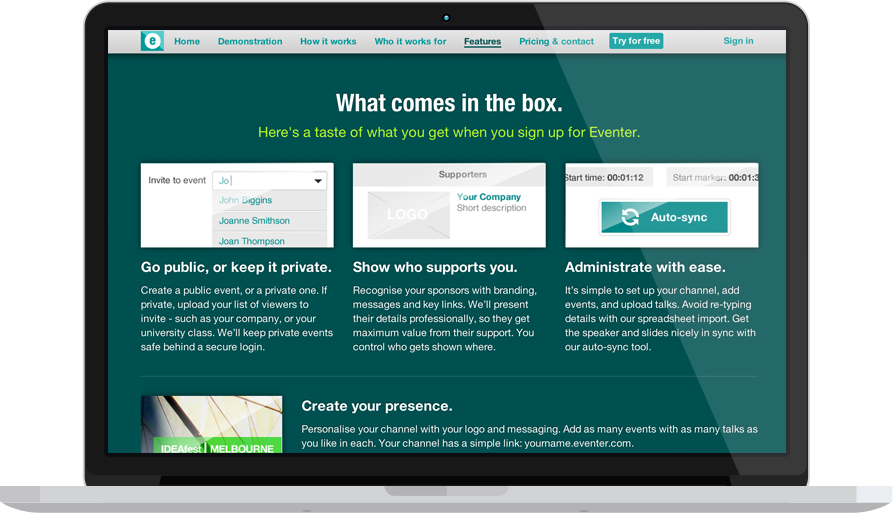
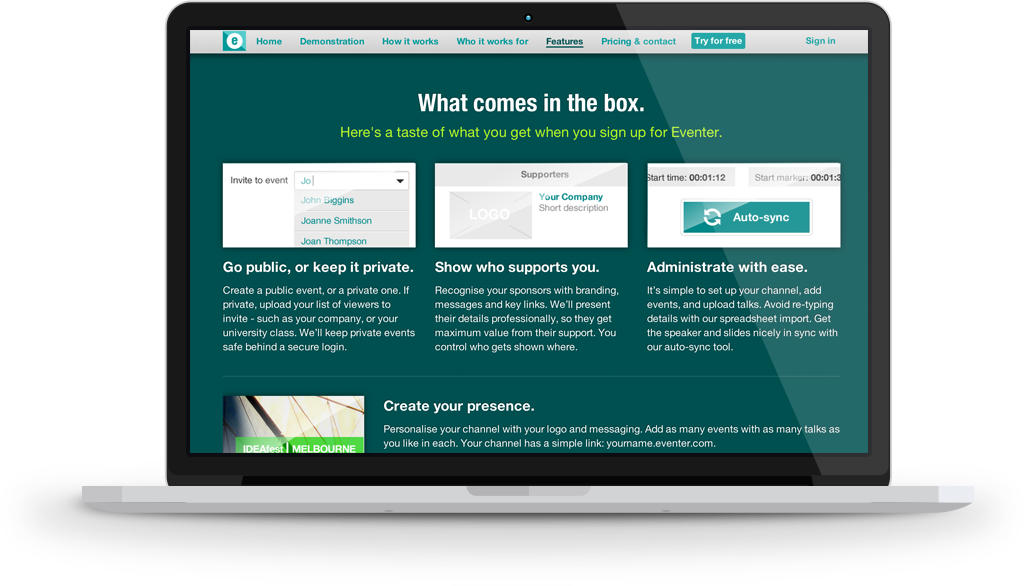
Eventer page should be done now

diff --git a/src/css/screen.css.scss b/src/css/screen.css.scss
@@ -173,10 +173,11 @@ footer {
   position: relative;
 }
 
+//TODO Move to eventer if only used there?
 .grey-background-with-image {
   @extend .grey-background;
-  min-height: 449px;
-  overflow:hidden;
+  min-height: 480px;
+  overflow: hidden;
   position: relative;
 }
 
@@ -221,13 +222,12 @@ ul.contact {
   }
 }
 
-.product-description {
-  padding-top: 220px;
-  padding-bottom: 220px;
-}
-
 .drop-us-a-line .button {
   margin-top: 12px
+}
+
+.with-margin-top {
+  margin-top:60px;
 }
 
 /* Home page */
@@ -329,6 +329,10 @@ ul.roles {
     height: 400px;
     @include image-background("../images/rea-cards.png");
   }
+  .product-description {
+    padding-top: 220px;
+    padding-bottom: 220px;
+  }
 }
 
 .royalSlider {
@@ -400,10 +404,8 @@ ul.roles {
   }
 
   .desktop {
-    display: inherit;
+    display: block;
   }
-
-  .macbook img {display: none};
 
   .products {
     background-color:#fff;
@@ -428,22 +430,6 @@ ul.roles {
   .button {
     padding-left: 43px;
     padding-right: 43px;
-  }
-
-  .macbook {
-    position: absolute;
-    top: 0;
-    left: 65%;
-    right: 0;
-    bottom: 0;
-    margin-top: 60px;
-    z-index:10000;
-
-    img {
-      margin-top: 60px auto 0 auto;
-      display: block;
-      max-width: inherit;
-    }
   }
 
   .rea-side-background {

diff --git a/src/css/eventer.css.scss b/src/css/eventer.css.scss
@@ -2,18 +2,11 @@
 
 .eventer {
   .eventer-storywall {
-    height: 480px;
+    padding:0;
+    height: 426px;
     width: 100%;
     background: url('../images/eventer-storywall.jpg') no-repeat center center;
     background-size: cover;
-  }
-
-  ul.events-list {
-    margin-bottom: 60px;
-    li {
-      display: inline-block;
-      margin: 0 12px;
-    }
   }
 
   .intro {
@@ -32,16 +25,19 @@
   }
 }
 
-@media (max-width: 767px) {}
+.like-being-there {
+  display: none;
+}
 
-@media (min-width: 992px) {
+@media (min-width: 767px) {
   .like-being-there {
+    display:block;
     border: 1px red;
     position: relative;
-    margin-top: 459px;
+    margin-top: 375px;
     height: 170px;
     background-color: $color-light-grey;
-  
+
     img {
       position: absolute;
       left: 0;
@@ -51,4 +47,22 @@
       margin: 0 auto;
     }
   }
+
+  .macbook {
+    position: absolute;
+    top: 0;
+    left: 65%;
+    right: 0;
+    bottom: 0;
+    margin-top: 60px;
+    z-index:10000;
+
+    img {
+      margin-top: 60px auto 0 auto;
+      display: block;
+      max-width: inherit;
+    }
+  }
 }
+
+@media (min-width: 992px) {}

diff --git a/src/css/about.css.scss b/src/css/about.css.scss
@@ -18,10 +18,6 @@
     padding-top:0;
     padding-bottom:0;
   }
-
-  .with-margin-top {
-    margin-top:60px;
-  }
 }
 
 @media (min-width: 767px) {
